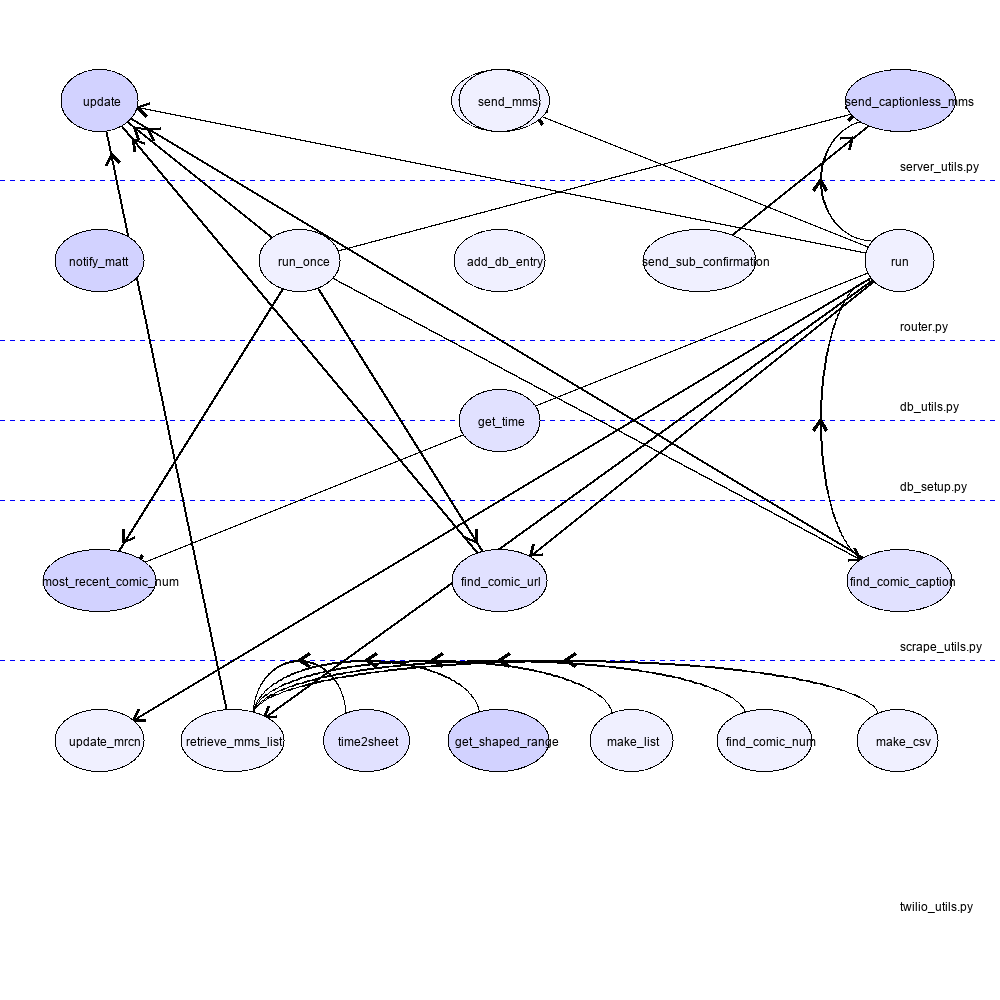
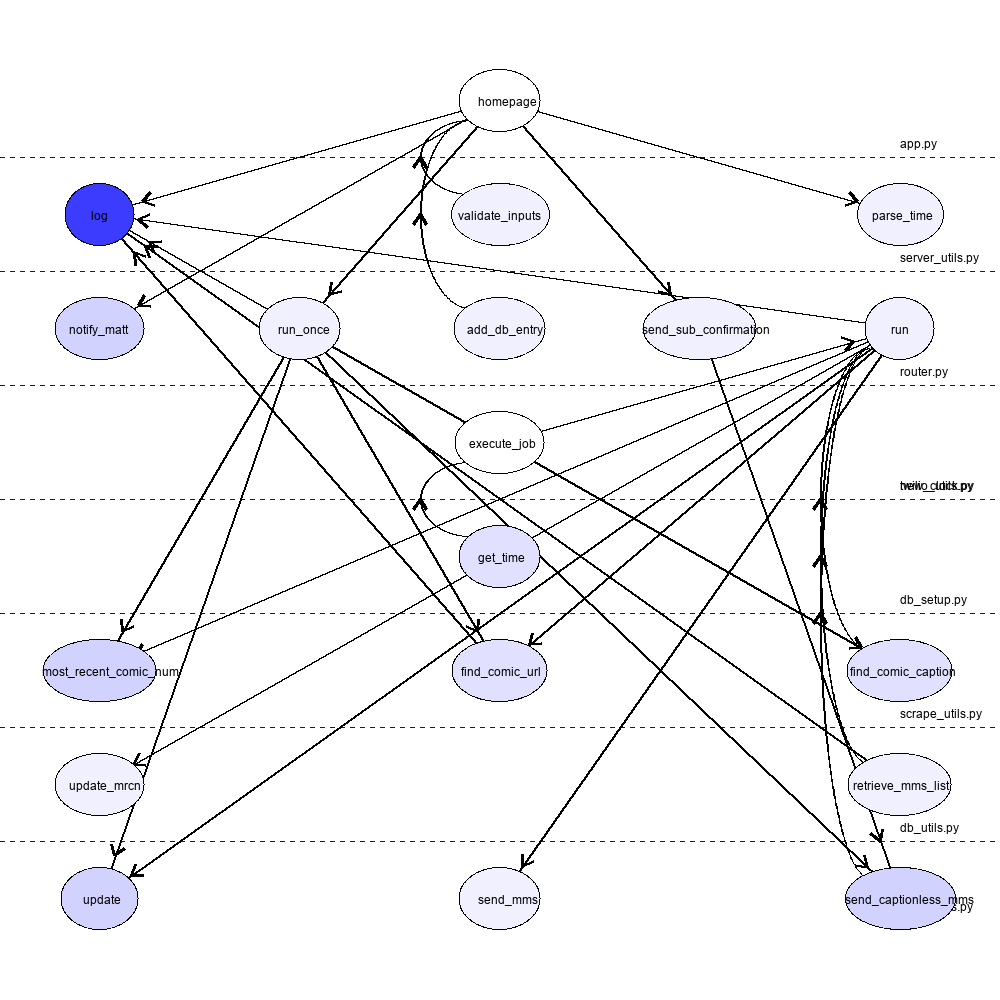
last small granularity fix

diff --git a/parse_file.py b/parse_file.py
@@ -35,9 +35,9 @@ def gh_link_entry(link):
 	get_filemap_tuple=utils.get_filemap(link)
 	dict = get_filemap_tuple[0]
 	granularity=get_filemap_tuple[1]
-	#granularity=5
+	#granularity=3
 
-	
+
 
 	keys = list(dict.keys())
 	create_graph_ret_tuple=create_graph(keys, dict)
@@ -48,16 +48,17 @@ def gh_link_entry(link):
 
 	#call recursive func
 	if((granularity is not None) and granularity<=len(connections)):
-		connections=[(-1*get_function_weight(c,line_counts,name_to_CD),c) for c in connections]
+		connections=[(-1*get_function_weight(c,line_counts,name_to_CD,"not_existing"),c) for c in connections]
 		heap=[]
 		for elem in connections:
 			heappush(heap,elem)
 		#print(heap)
 		heap=heap[0:granularity]
 		heap=[elem[1]for elem in heap]
-
+		print(heap[0].get_call_list())
 		reduced_connection_set={}
 		for h in heap:
+			reduced_connection_set[h.get_func_name()]=h
 			for cl in h.get_call_list():
 				reduced_connection_set[cl]=name_to_CD[cl]
 
@@ -67,16 +68,23 @@ def gh_link_entry(link):
 			for elems in elem.get_call_list():
 				if elems in list(reduced_connection_set.keys()):
 					new_cl.append(elems)
-			elem.set_call_list(new_cl)
+			elem.call_list=(rem_duplicate(new_cl))
 	cg.draw(connections)
 	return connections
 
+def rem_duplicate(duplicate):
+    final_list = []
+    for num in duplicate:
+        if num not in final_list:
+            final_list.append(num)
+    return final_list
 
-def get_function_weight(single_cnct,lc,n2cd):#single connection, line_counts
-	if len(single_cnct.get_call_list())==0:
+def get_function_weight(single_cnct,lc,n2cd,prev):#single connection, line_counts
+	rec_list=list(filter(lambda a: a != prev, single_cnct.get_call_list()))
+	if len(rec_list)==0:
 		return lc[single_cnct.get_func_name()]
 	else:
-		return lc[single_cnct.get_func_name()] + sum([get_function_weight(n2cd[x],lc,n2cd) for x in single_cnct.get_call_list()])
+		return lc[single_cnct.get_func_name()] + sum([get_function_weight(n2cd[x],lc,n2cd,x) for x in single_cnct.get_call_list()])
 
 ########
 # file_list --> list of file ID's
